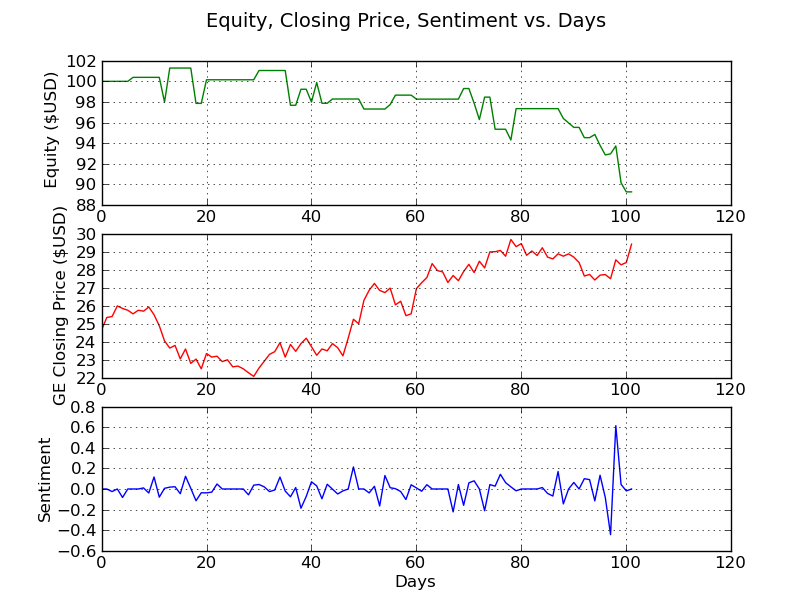
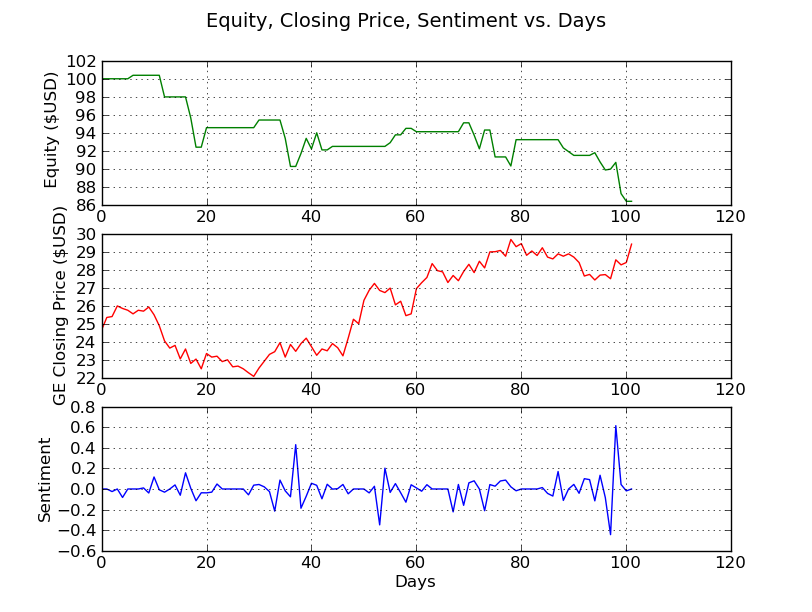
4/23/2011 3:02pm

diff --git a/Analytics.py b/Analytics.py
@@ -34,7 +34,9 @@ def strat(s, p, da):
       # MA of 4 days, decreasing in weight.
       # Using the one day sentiment works better for WMT 2003-01-01 to 2003-06-01
       # Cause a trade in whatever direction sentiment is
-      wma[date] = s[i], p[i], returns(p, i), s[i]*100000000
+      wma[date] = s[i], p[i], returns(p, i), s[i]
+      #wma[date] = s[i], p[i], returns(p, i), (s[i]*1 + s[i-1]*0.5 + s[i-2]*0.25 + s[i]*0.125)/1.875
+      #wma[date] = s[i], p[i], returns(p, i), s[i]*100000000
     i += 1
   return wma
     

diff --git a/ReutersQuery.py b/ReutersQuery.py
@@ -16,7 +16,7 @@ class ReutersQuery:
     #end = raw_input('end: ')
 
     start = '2003-01-01'
-    end = '2004-01-01'
+    end = '2003-06-01'
 
     startStrip = time.strptime(start[:10], "%Y-%m-%d")
     endStrip = time.strptime(end[:10], "%Y-%m-%d")
